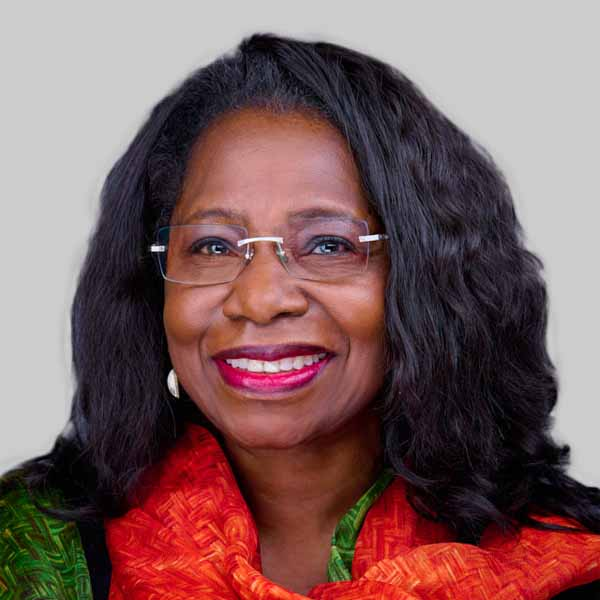
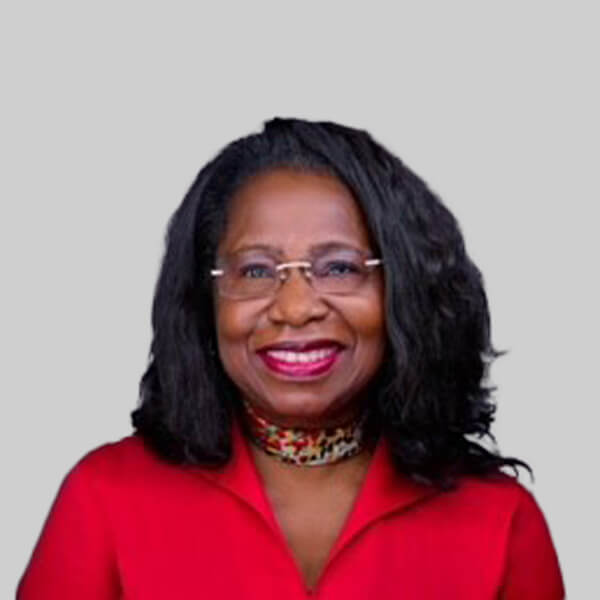
REMOVED SPEAKERS AND ADDED SOME NEW CHANGES

diff --git a/sponsors.html b/sponsors.html
@@ -62,14 +62,13 @@
           <li><a class="nav-link scrollto" href="./index.html#about">ABOUT</a></li>
           <!-- <li><a class="nav-link scrollto" href="./index.html#services">Services</a></li> -->
           <!-- <li><a class="nav-link scrollto " href="#portfolio">Portfolio</a></li> -->
-          <li class="dropdown"><a href="#"><span>FORUM</span> <i class="bi bi-chevron-down"></i></a>
+          <li><a href="./program.html">PROGRAM</a></li>
+          <!-- <li class="dropdown"><a href="#"><span>FORUM</span> <i class="bi bi-chevron-down"></i></a>
             <ul>
-              <li><a href="./program.html">PROGRAM</a></li>
               <li><a href="./speakers.html">SPEAKERS</a></li>
-              <!-- <li><a href="#">Drop Down 3</a></li>
-              <li><a href="#">Drop Down 4</a></li> -->
+             
             </ul>
-          </li>
+          </li> -->
         
           <li><a class="nav-link scrollto btn btn-primary text-white px-lg-4 px-2 py-2 mx-lg-0 mx-3" href="./sponsors.html" style="background-color: rgb(15, 59, 143);">EXHIBIT</a></li>
           <li><a class="btn btn-danger text-white px-lg-4 px-2 py-2 mx-lg-0 mx-3 mt-md-0 mt-3" href="./register.html">REGISTER TO ATTEND</a></li>
@@ -111,7 +110,7 @@
         <div class="row mx-auto justify-content-between mt-5">
           <div class="col-lg-4 col-md-6 d-flex" data-aos="zoom-in" data-aos-delay="100">
             <div class="card border-0 text-white" style="background-color: #090329;">
-              <img src="https://carisca.knust.edu.gh/wp-content/uploads/2021/10/2021-07-22-Summit-Group-photograph-CA.jpg" class="card-img-top" alt="image">
+              <img src="https://th.bing.com/th/id/R.51cbef62b8232f2d4b4fa8763fe6277b?rik=rB16NAPn9JvbmQ&pid=ImgRaw&r=0" class="card-img-top" alt="image">
               <div class="card-body mx-0 px-0">
                 <h1 class="card-heading fs-5">Recognition in event marketing materials</h1>
                 <p class="card-text">This entails acknowledgment and visibility for your organization across various promotional channels associated with the event, such as the event website, social media platforms, and press releases. Your organization's name and contributions will be highlighted in marketing materials, ensuring widespread exposure and recognition among the event audience and beyond.</p>
@@ -121,7 +120,7 @@
 
           <div class="col-lg-4 col-md-6 d-flex" data-aos="zoom-in" data-aos-delay="100">
             <div class="card border-0 text-white" style="background-color: #090329;">
-              <img src="https://carisca.knust.edu.gh/summit2023/images/resources/callforpapers2.jpg" class="card-img-top" alt="image">
+              <img src="https://th.bing.com/th/id/OIP.E37XH3I90jpYPHpispbuNAHaEg?w=556&h=338&rs=1&pid=ImgDetMain" class="card-img-top" alt="image">
               <div class="card-body mx-0 px-0">
                 <h1 class="card-heading fs-5">Opportunity to showcase your organization's products/services </h1>
                 <p class="card-text">This offers your organization an exclusive chance to present and demonstrate your products or services at designated exhibition areas throughout the event. This dedicated space provides a valuable opportunity to engage directly with event attendees, showcase offerings, and establish meaningful connections with potential clients or collaborators.</p>
@@ -395,22 +394,8 @@
   <!-- ======= Footer ======= -->
   <footer id="footer">
 
-    <div class="footer-newsletter">
-      <div class="container">
-            <h4 class="text-center fs-2">ABOUT CARISCA</h4>
-            <!-- <p class="fs-4"><a href="https://carisca.knust.edu.gh/" target="_blank">CARISCA</a> works in four focus areas: <a href="https://carisca.knust.edu.gh/component-1-research/">research</a>, <a href="https://carisca.knust.edu.gh/component-2-stakeholder-engagement/">stakeholder engagement</a>, <a href="https://carisca.knust.edu.gh/curricula-training/">curriculum</a>, and <a href="https://carisca.knust.edu.gh/access-inclusion/">access and inclusion</a>.</p>
-            <p class="fs-4">Together, these activities enable KNUST to increase research capacity, strengthen and update supply chain curricula, and provide supply chain management expertise to Ghana and Africa.</p>
-            <p class="fs-4">These activities also focus on developing partnerships and revenue-generating activities to sustain ongoing growth and influence and encourage and promote the inclusion of women in supply chain education, research and practice.</p> -->
-            <p class="fs-4">
-              The Centre for Applied Research and Innovation in Supply Chain – Africa (CARISCA) is a centre of excellence at Kwame Nkrumah University of Science and Technology. It was created in partnership with Arizona State University and with support from the United States Agency for International Development. CARISCA is a globally recognized, locally owned hub for generating and translating innovative research into positive development outcomes for Ghana and pan-African supply chains.
-
-            </p>
-            <p class="fs-4">
-              Efficient local supply chains are crucial to local, regional and national economic development. The Business Forum and Exhibition will bring together industry experts, business leaders, researchers and other stakeholders to discuss current trends, challenges and opportunities in the supply chain domain, with a focus on enhancing supply chain management practices in Africa.
-            </p>
-          </div>
-    </div>
-    <img src="./assets/img/trilogo1.jpg" class="mx-auto d-block footer-img" alt="" style="mix-blend-mode: darken;">
+   
+   
 
     <div class="footer-top">
       <div class="container">
@@ -467,7 +452,7 @@
     </div>
 
     <div class="container py-4 flex justify-content-center align-items-center">
-    
+      <img src="./assets/img/trilogo1.jpg" class="mx-auto d-block footer-img" alt="" style="mix-blend-mode: darken;">
      <p class="text-center mt-4"> &copy; Copyright <strong><span>CARISCA, KNUST</span></strong>. All Rights Reserved</p>
     </div>
    

diff --git a/register.html b/register.html
@@ -65,14 +65,13 @@
           <li><a class="nav-link scrollto" href="./index.html#about">ABOUT</a></li>
           <!-- <li><a class="nav-link scrollto" href="./index.html#services">Services</a></li> -->
           <!-- <li><a class="nav-link scrollto " href="#portfolio">Portfolio</a></li> -->
-          <li class="dropdown"><a href="#"><span>FORUM</span> <i class="bi bi-chevron-down"></i></a>
+          <li><a href="./program.html">PROGRAM</a></li>
+          <!-- <li class="dropdown"><a href="#"><span>FORUM</span> <i class="bi bi-chevron-down"></i></a>
             <ul>
-              <li><a href="./program.html">PROGRAM</a></li>
               <li><a href="./speakers.html">SPEAKERS</a></li>
-              <!-- <li><a href="#">Drop Down 3</a></li>
-              <li><a href="#">Drop Down 4</a></li> -->
+           
             </ul>
-          </li>
+          </li> -->
         
           <li><a class="nav-link scrollto btn btn-primary text-white px-lg-4 px-2 py-2 mx-lg-0 mx-3" href="./sponsors.html" style="background-color: rgb(15, 59, 143);">EXHIBIT</a></li>
           <li><a class="btn btn-danger text-white px-lg-4 px-2 py-2 mx-lg-0 mx-3 mt-md-0 mt-3" href="./register.html">REGISTER TO ATTEND</a></li>
@@ -213,28 +212,42 @@
                 <label for="" class="fw-bold">Role<span class="text-danger opacity-75">*</span></label>
                 <select name="role" id="role" class="form-control rounded-0 py-2 px-3 mt-2">
                     <option value="" class="disable">---Please select---</option>
-                    <option value="Agriculture/agribusiness worker">Entrepreneur/Startup Owner
+                    <option value="Entrepreneur/Startup Owner">Entrepreneur/Startup Owner
                     </option>
-                    <option value="Faculty">Chairman/ CEO/President
+                    <option value="Chairman/ CEO/President">Chairman/ CEO/President
                     </option>
-                    <option value="Farmer">Manager/Supervisor
+                    <option value="Manager/Supervisor">Manager/Supervisor
                     </option>
-                    <option value="Healthcare practitioner">Sales and Marketing Executive
+                    <option value="Sales and Marketing Executive">Sales and Marketing Executive
                     </option>
-                    <option value="Staff">Media Representative/Personality 
+                    <option value="Media Representative/Personality">Media Representative/Personality 
                     </option>
-                    <option value="Student">Professor/Academic/Educator
+                    <option value="Professor/Academic/Educator">Professor/Academic/Educator
                     </option>
-                    <option value="Supply chain professional">Government Representative/Public Sector Staff 
+                    <option value="Government Representative/Public Sector Staff">Government Representative/Public Sector Staff 
                     </option>
-                    <option value="Supply chain professional">Non-Profit/NGO 
+                    <option value="Non-Profit/NGO">Non-Profit/NGO 
  
                     </option>
-                    <option value="Supply chain professional">Student 
+                    <option value="Student">Student 
                     </option>
-                    <option value="Supply chain professional">Other, specify 
+                    <option value="Other">Other 
                     </option>
                   </select>
+              </div>
+            </div>
+
+            <div class="col-lg-6 mt-4 d-none" id="specify_sector">
+              <div class="d-flex flex-column">
+                <label for="" class="fw-bold">Specify Sector<span class="text-danger opacity-75">*</span></label>
+                <input type="text" name="specify_sector" id="specify_sector" class="py-2 px-3 mt-2 form-control rounded-0" required>
+              </div>
+            </div>
+
+            <div class="col-lg-6 mt-4 d-none" id="specify_role">
+              <div class="d-flex flex-column">
+                <label for="" class="fw-bold">Specify Role<span class="text-danger opacity-75">*</span></label>
+                <input type="text" name="specify_role" id="specify_role" class="py-2 px-3 mt-2 form-control rounded-0" required>
               </div>
             </div>
           

diff --git a/index.html b/index.html
@@ -65,14 +65,13 @@
           <!-- <li><a class="nav-link scrollto" href="#services">Services</a></li> -->
           <!-- <li><a class="nav-link scrollto " href="#portfolio">Portfolio</a></li> -->
           <!-- <li><a class="nav-link scrollto" href="#team">Speakers</a></li> -->
-          <li class="dropdown"><a href="#"><span>FORUM</span> <i class="bi bi-chevron-down"></i></a>
+          <li><a href="./program.html">PROGRAM</a></li>
+          <!-- <li class="dropdown"><a href="#"><span>FORUM</span> <i class="bi bi-chevron-down"></i></a>
             <ul>
-              <li><a href="./program.html">PROGRAM</a></li>
               <li><a href="./speakers.html">SPEAKERS</a></li>
-              <!-- <li><a href="#">Drop Down 3</a></li>
-              <li><a href="#">Drop Down 4</a></li> -->
+             
             </ul>
-          </li>
+          </li> -->
           <li><a class="nav-link scrollto btn btn-primary text-white px-lg-4 px-2 py-2 mx-lg-0 mx-3" href="./sponsors.html" style="background-color: rgb(15, 59, 143);">EXHIBIT</a></li>
           <li><a class="btn btn-danger text-white px-lg-4 px-2 py-2 mx-lg-0 mx-3 mt-md-0 mt-3" href="./register.html">REGISTER TO ATTEND</a></li>
         </ul>
@@ -633,12 +632,13 @@
           <div class="col-lg-4 col-md-6 d-flex align-items-stretch" data-aos="fade-up" data-aos-delay="100">
             <div class="member">
               <div class="member-img">
-                <img src="https://firebasestorage.googleapis.com/v0/b/cariscabusinessforum.appspot.com/o/team-1.jpg?alt=media&token=73ce4297-a99a-419f-9a0e-efdc8821aa62" class="img-fluid" alt="">
+                <img src="https://firebasestorage.googleapis.com/v0/b/cariscabusinessforum.appspot.com/o/team-1.jpg?alt=media&token=e1ae986b-a823-4a34-bf99-9379e2479feb" class="img-fluid" alt="">
                
               </div>
               <div class="member-info" data-bs-toggle="modal" data-bs-target="#exampleModal" style="cursor: pointer;">
                 <h4>Ruby Amegah</h4>
-                <span>VP, Starbucks</span>
+                <span class="">Vice President of Global Food Product R&D, Starbucks</span>
+                <p class="font-italic">"The Odyssey of Coffee and Cocoa Beans- From African soil to Global Cup"</p>
               </div>
             </div>
           </div>

diff --git a/assets/js/register.js b/assets/js/register.js
@@ -11,10 +11,36 @@ const continent = document.getElementById("continent");
 const mobile_number = document.getElementById("mobile_number");
 const country = document.getElementById("country");
 const role = document.getElementById("role");
+const sector = document.getElementById("sector");
+const specify_sector = document.getElementById("specify_sector");
+const specify_role = document.getElementById("specify_role");
 // const comment = document.getElementById("comment");
 const submitBtn = document.getElementById("submit");
 
 // ADD EVENT LISTENER
+
+function handleSectorChange(e) {
+  const mysector = sector.value;
+  if (mysector === "Other") {
+    specify_sector.classList.remove("d-none");
+  } else {
+    specify_sector.classList.add("d-none");
+  }
+}
+
+function handleRoleChange(e) {
+  const myrole = role.value;
+  console.log(myrole);
+  if (myrole === "Other") {
+    specify_role.classList.remove("d-none");
+  } else {
+    specify_role.classList.add("d-none");
+  }
+}
+
+// HANDLE CHANGE
+sector.addEventListener("change", handleSectorChange);
+role.addEventListener("change", handleRoleChange);
 
 function handleSubmit(e) {
   e.preventDefault();
@@ -27,7 +53,7 @@ function handleSubmit(e) {
   const mobile_number_value = mobile_number.value;
   const country_value = country.value;
   const role_value = role.value;
-// //   const comment_value = comment.value;
+  // //   const comment_value = comment.value;
 
   if (
     !first_name_value ||
@@ -45,7 +71,7 @@ function handleSubmit(e) {
     setTimeout(() => {
       errormsg.innerHTML = "";
     }, 3000);
-    return
+    return;
   }
 
   console.log({
@@ -60,7 +86,7 @@ function handleSubmit(e) {
     role_value,
     // comment_value,
   });
-  window.location.href = "/thanks.html"
+  window.location.href = "/thanks.html";
 }
 
 submitBtn.addEventListener("click", handleSubmit);

diff --git a/program.html b/program.html
@@ -63,15 +63,14 @@
           <li><a class="nav-link scrollto" href="./index.html#about">ABOUT</a></li>
           <!-- <li><a class="nav-link scrollto" href="./index.html#services">Services</a></li> -->
           <!-- <li><a class="nav-link scrollto " href="#portfolio">Portfolio</a></li> -->
-          <li class="dropdown"><a href="#" class="active"><span>FORUM</span> <i class="bi bi-chevron-down"></i></a>
+          <li><a href="./program.html">PROGRAM</a></li>
+          <!-- <li class="dropdown"><a href="#" class="active"><span>FORUM</span> <i class="bi bi-chevron-down"></i></a>
             <ul>
-              <li><a href="./program.html">PROGRAM</a></li>
               <li><a href="./speakers.html">SPEAKERS</a></li>
-              <!-- <li><a href="#">Drop Down 3</a></li>
-              <li><a href="#">Drop Down 4</a></li> -->
+              
             </ul>
           </li>
-        
+         -->
           <li><a class="nav-link scrollto btn btn-primary text-white px-lg-4 px-2 py-2 mx-lg-0 mx-3" href="./sponsors.html" style="background-color: rgb(15, 59, 143);">EXHIBIT</a></li>
           <li><a class="btn btn-danger text-white px-lg-4 px-2 py-2 mx-lg-0 mx-3 mt-md-0 mt-3" href="./register.html">REGISTER TO ATTEND</a></li>
 
